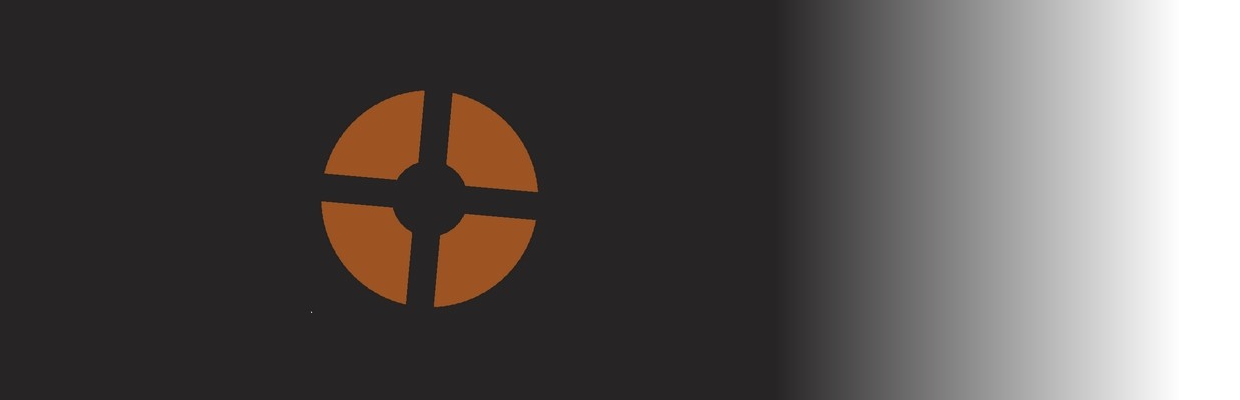
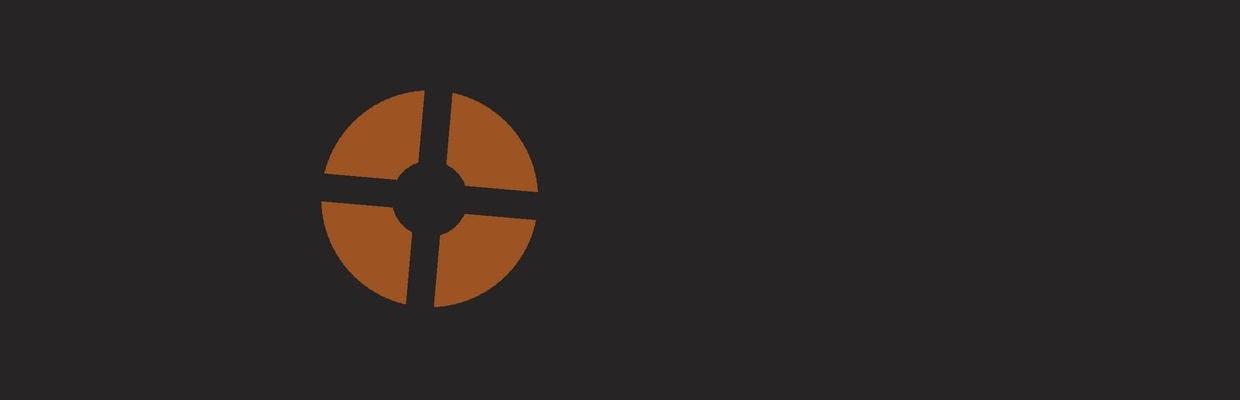
Map filters is now working

diff --git a/src/web/js/controllers/server.js b/src/web/js/controllers/server.js
@@ -68,11 +68,7 @@ app.controller('serverCtrl', function($scope, $rootScope, $stateParams)
     "empty": false,
     "tags": {
       "exclude": [
-        "valve",
-        "ctf_2fort",
-        "pl_upward",
-        "ctf_sawmill",
-        "ctf_turbine"
+        "valve"
       ]
     }
   };
@@ -80,25 +76,30 @@ app.controller('serverCtrl', function($scope, $rootScope, $stateParams)
   $scope.toggleGameModeFromFilter = function(gameModeName){
     var gameMode = $scope.refined.gameModes[gameModeName];
     //if not exclude -> exclude
+    var toggleValue = false;
     if(!gameMode.exclude){
-      gameMode.exclude = true;
+      toggleValue = true;
+    }
+    gameMode.exclude = toggleValue;
       // find the maps associed to this gamemode
-      console.log($scope.refined.maps);
-      for (var map in $scope.refined.maps) {
-        console.log("var map :");
-        console.log(map);
-        console.log("Toggle map "+$scope.refined.maps[map].fileName);
-        console.log("Map in refined :");
-        console.log($scope.refined.maps[map]);
-        console.log("gamemode");
-        console.log($scope.refined.maps[map].gameMode);
-        if ($scope.refined.maps.hasOwnProperty(map)) {
-          if($scope.refined.maps[map].gameMode.name === gameModeName){
-            $scope.refined.maps[map].exclude = true;
+    for (var map in $scope.refined.maps) {
+      if ($scope.refined.maps.hasOwnProperty(map)) {
+        if($scope.refined.maps[map].gameMode === gameModeName){
+          //set the value
+          $scope.refined.maps[map].exclude = toggleValue;
+          var t = $scope.filters.tags.exclude;
+          if(toggleValue){
+            t.push(map);
+          }
+          else{
+            t = _.remove(t, function(n) {
+              return n === map;
+            });
           }
         }
       }
     }
+
     // if exclude -> unexclude
 
 
@@ -111,13 +112,29 @@ app.controller('serverCtrl', function($scope, $rootScope, $stateParams)
     if(!$scope.refined.maps[mapName]){
       return;
     }
+    var toggleValue = false;
     if(!$scope.refined.maps[mapName].exclude){
-      $scope.refined.maps[mapName].exclude = true;
+      toggleValue = true;
+    }
+    $scope.refined.maps[mapName].exclude = toggleValue;
+    console.log('Toggling '+mapName);
+
+    //if the gameMode as been disabled, re-enable it
+    if(toggleValue === false){
+      var gm = $scope.refined.maps[mapName].gameMode;
+      $scope.refined.gameModes[gm].exclude = false;
+    }
+
+    var t = $scope.filters.tags.exclude;
+    if(toggleValue){
+      t.push(map);
     }
     else{
-      $scope.refined.maps[mapName].exclude = false;
+      t = _.remove(t, function(n) {
+        return n === map;
+      });
     }
-    console.log('Toggling '+mapName);
+
     if(!$scope.$$phase) {
       $scope.$apply();
     }

diff --git a/src/web/style/refined.scss b/src/web/style/refined.scss
@@ -65,6 +65,7 @@ body{
 .game-modes-list{
   .game-mode{
     .game-mode-thumb{
+      border: 2px #393532 solid;
       position: relative;
       overflow: hidden;
       height: 100px;
@@ -76,10 +77,13 @@ body{
         position: absolute;
         top: 0;
         right: 0;
+        height:100%;
         width: 50%;
         text-align: right;
-        margin: 10px;
+        padding: 0;
+        background: linear-gradient(to right, rgba(0, 0, 0, 0), #393532);
         h1{
+          padding: 10px;
           font-size: 18px;
           font-weight: bold;
         }

diff --git a/src/web/views/gamemodes/list.html b/src/web/views/gamemodes/list.html
@@ -4,7 +4,7 @@
 <div class="game-modes-list" ng-hide="currentGameMode">
   <div class="row game-mode" ng-repeat="gameMode in refined.gameModes" ng-click="setCurrentGameMode(gameMode)">
     <div class="col-md-6 game-mode-thumb">
-      <img ng-src="'img/gamemodes_thumbs/{{gameMode.label}}.png'" err-src="img/gamemodes_thumbs/no_image.png" />
+      <img ng-src="img/gamemodes_thumbs/{{gameMode.label}}.png" err-src="img/gamemodes_thumbs/no_image.png" />
       <div class="game-mode-infos">
         <h1>{{gameMode.label}}</h1>
       </div>

diff --git a/src/web/views/gamemodes/gamemode.html b/src/web/views/gamemodes/gamemode.html
@@ -4,7 +4,7 @@
 </div>
 <div class="row">
   <div class="col-md-3 map-thumb" ng-repeat="map in refined.maps" ng-if="map.gameMode === currentGameMode.name" ng-click="toggleMapFromFilter(map.fileName)">
-    <img ng-src="'img/maps_thumbs/{{map.fileName}}.png'" err-src="img/maps_thumbs/no_image.png" />
+    <img ng-src="img/maps_thumbs/{{map.fileName}}.png" err-src="img/maps_thumbs/no_image.png" />
     <input type="checkbox" class="checkbox" ng-checked="!map.exclude">
     <div class="info">
       <p>{{map.label}}</p>

diff --git a/src/tf2.js b/src/tf2.js
@@ -53,7 +53,7 @@ ipc.on('retreiveServers', function (data) {
     }
   }
 
-
+  console.log(customFilters);
 
   client.getServerList(filters, data.limit, function(servers){
     console.log(servers.length+" server(s) found, filtering...");
